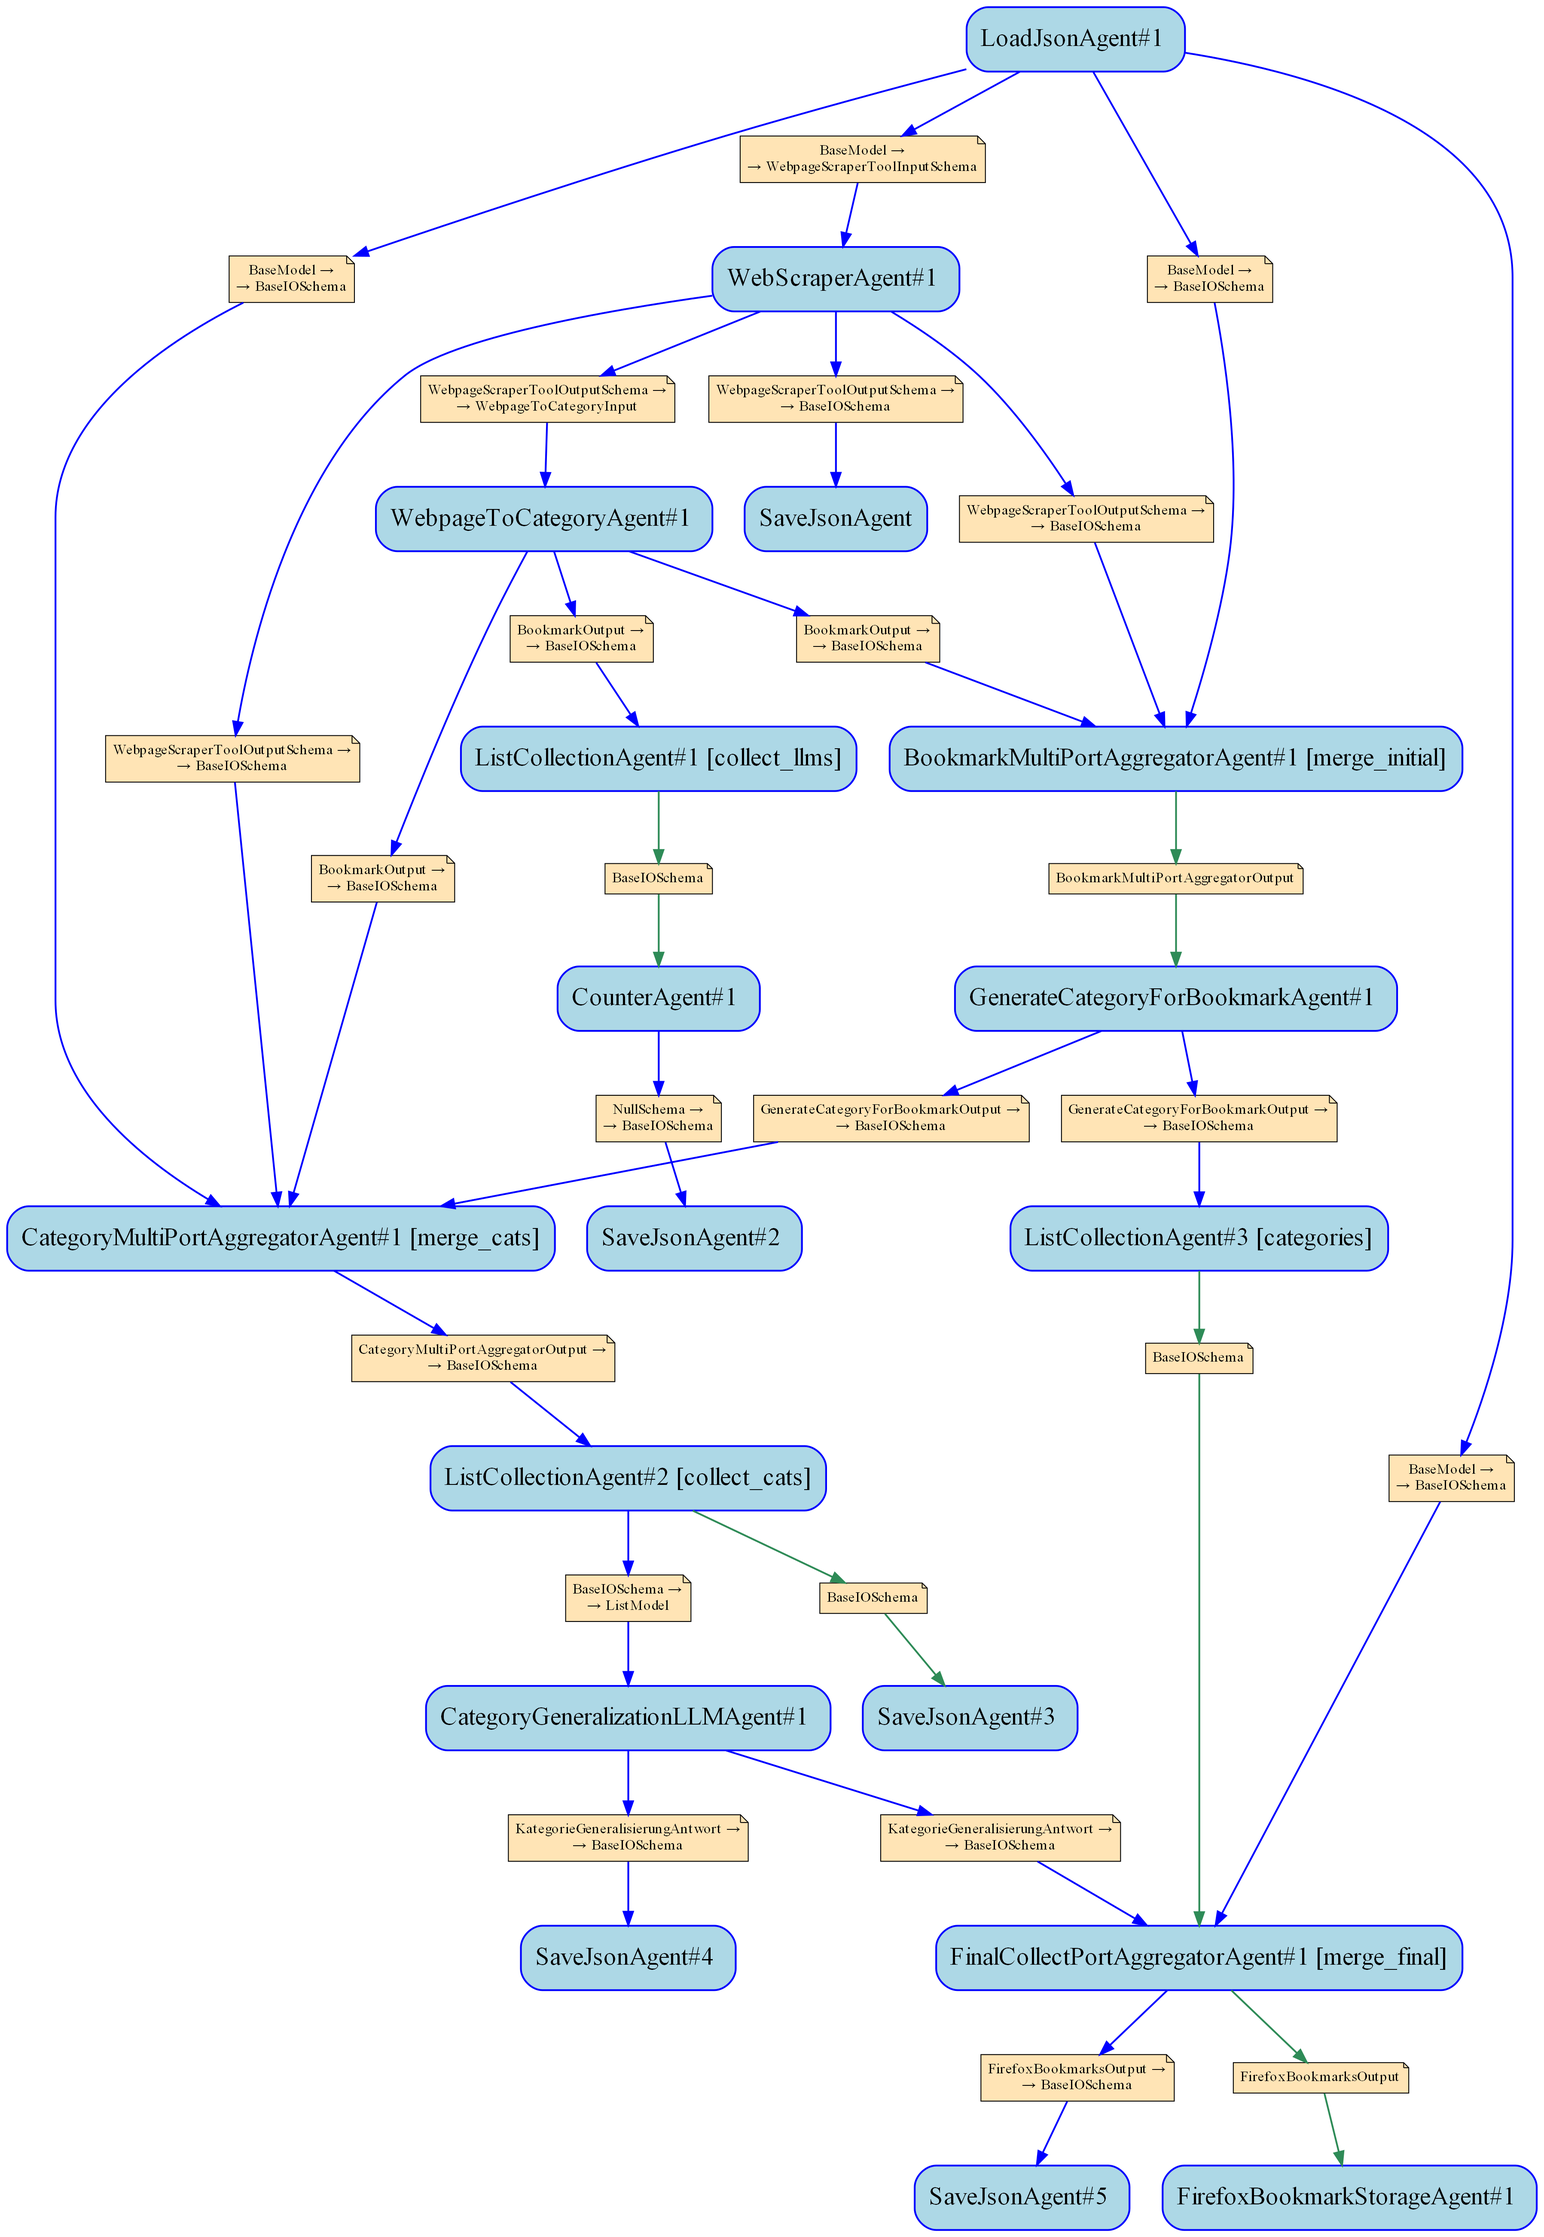
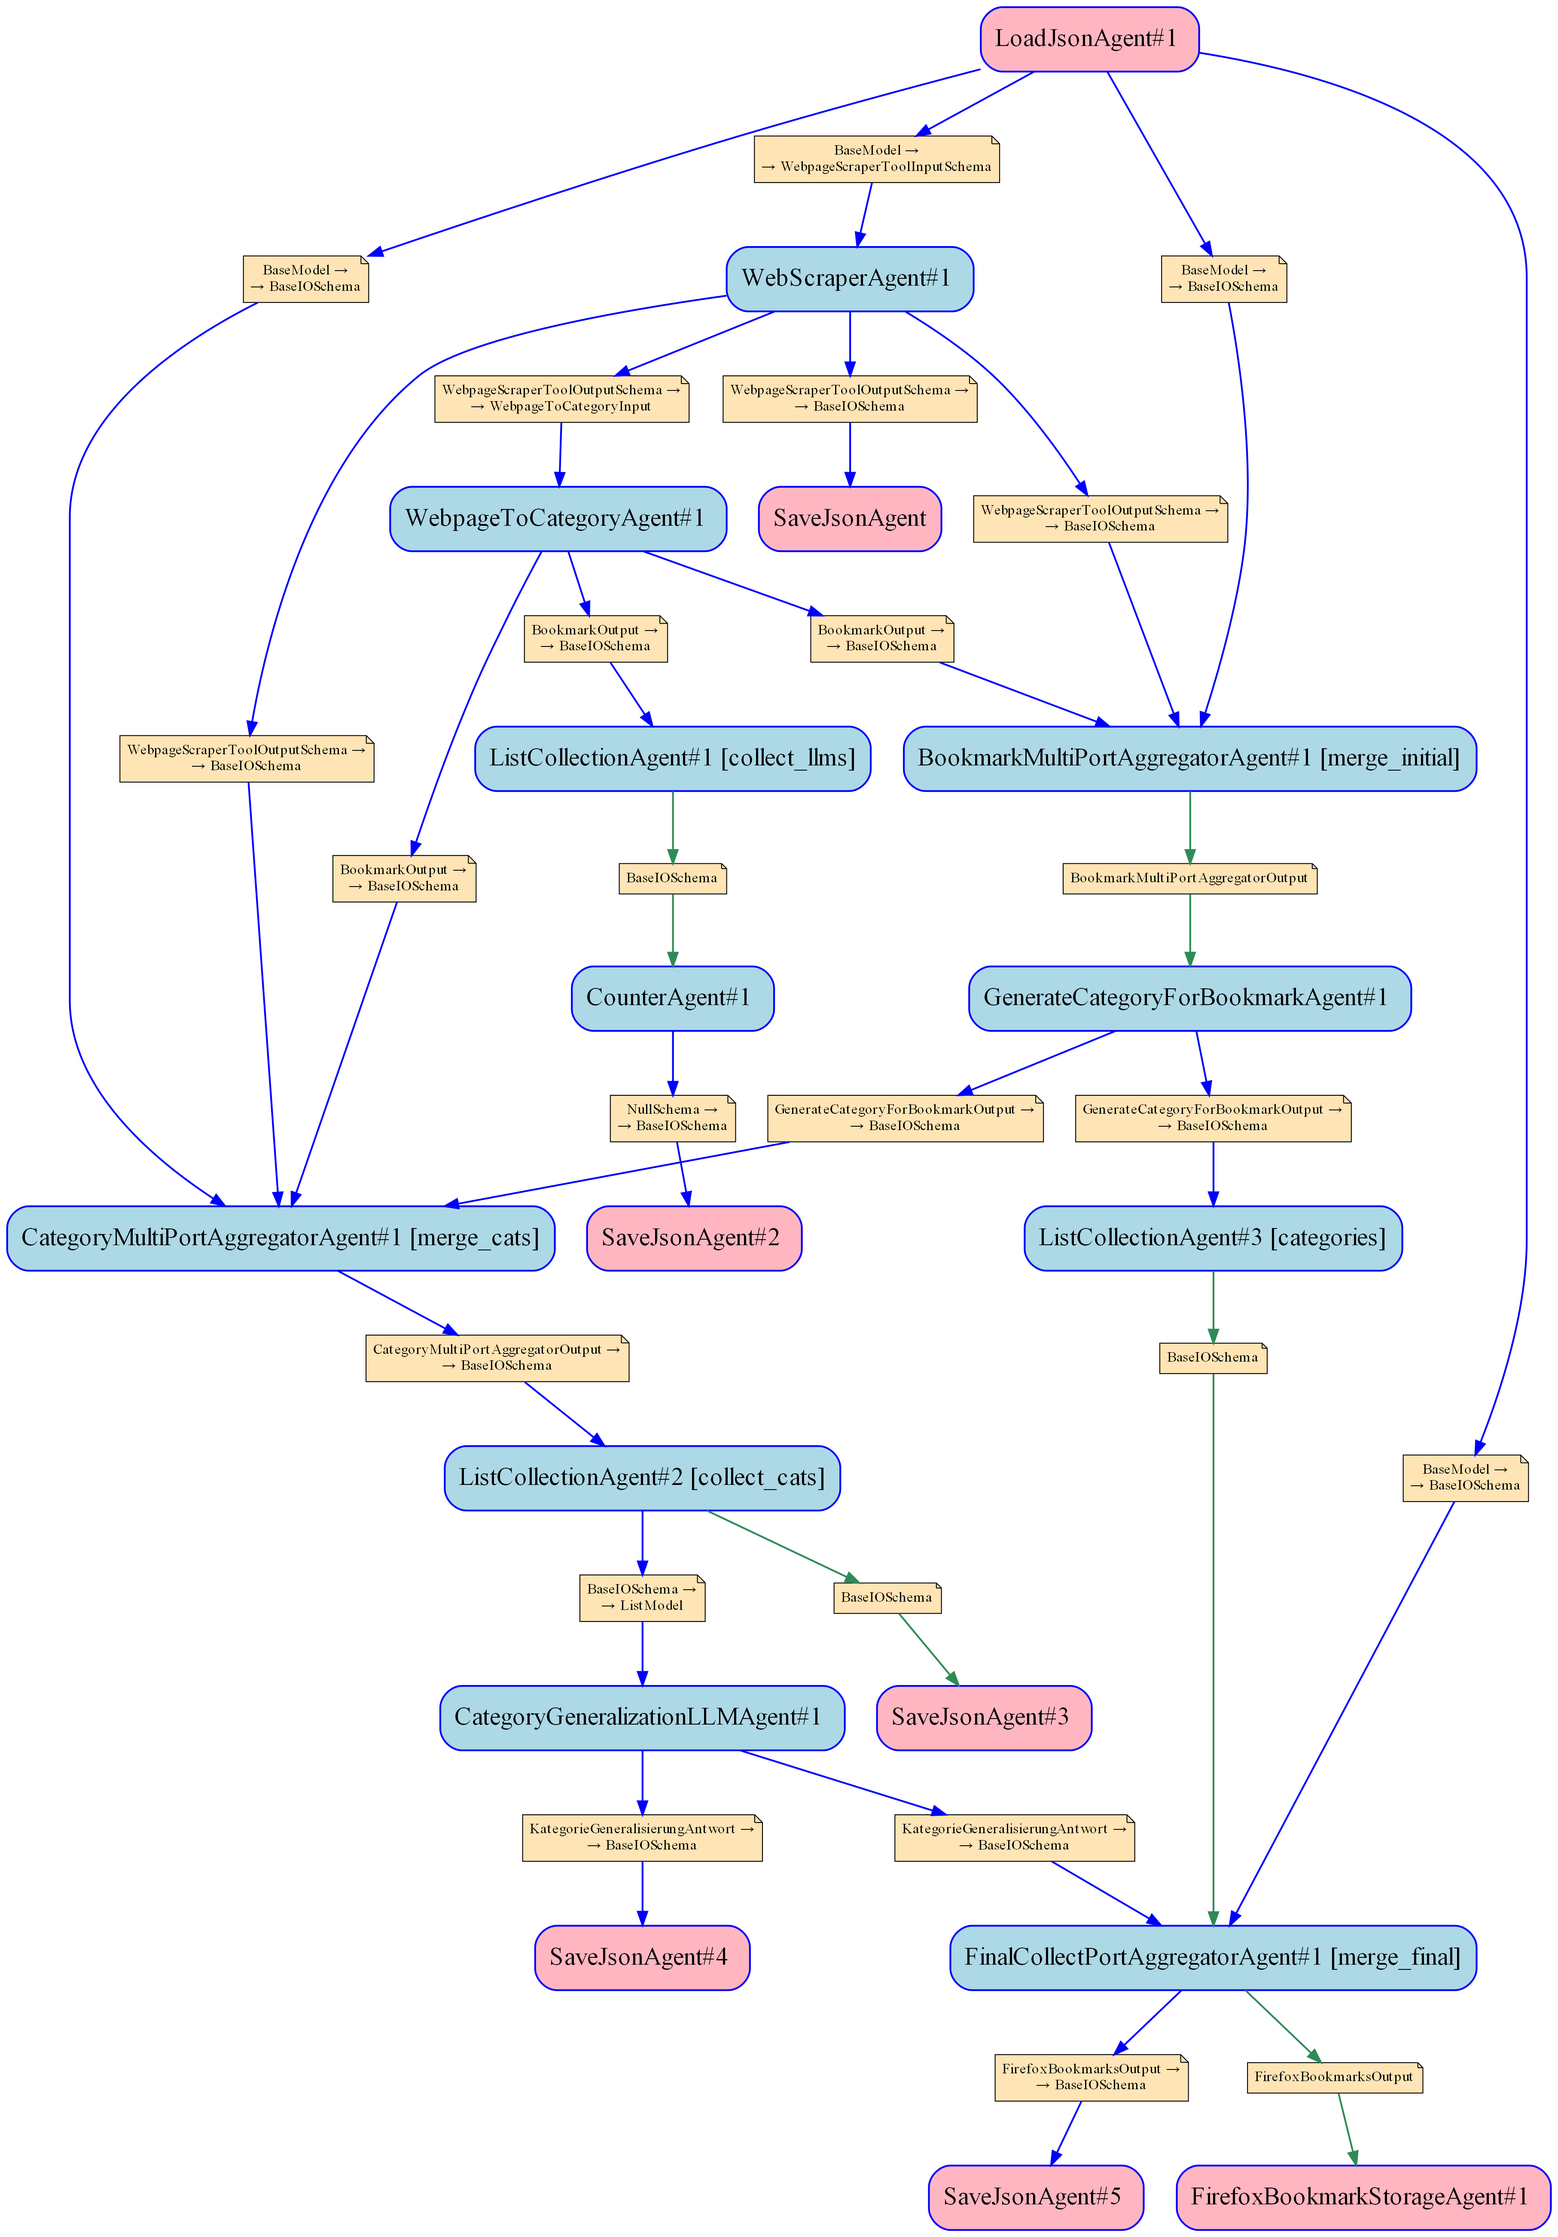
Exit/Entry node color

diff --git a/AgentFramework/PiplinePrinter.py b/AgentFramework/PiplinePrinter.py
@@ -55,6 +55,7 @@ class PipelinePrinter:
         is_ortho: bool = False,
         direction: str = "TB",
         fillcolor: Optional[str] = None,
+        entry_exit_fillcolor: Optional[str] = None,
         *,
         show_schemas: bool = False,
         schema_fillcolor: Optional[str] = None,
@@ -88,6 +89,17 @@ class PipelinePrinter:
             self.node_fill = None
             self.node_border = None
             self.node_fontcolor = None
+        self.fillcolor = fillcolor
+
+        if entry_exit_fillcolor:
+            self.entry_exit_node_fill = (
+                entry_exit_fillcolor if entry_exit_fillcolor.startswith("light") else f"light{entry_exit_fillcolor}"
+            )
+            self.entry_exit_node_border = fillcolor
+        else:
+            self.entry_exit_node_fill =  self.node_fill
+            self.entry_exit_node_border = self.node_border
+
 
         # schema‑node settings ----------------------------------------------
         self.show_schemas = show_schemas
@@ -104,6 +116,19 @@ class PipelinePrinter:
         """Return a GraphViz *dot* string describing the pipeline."""
         edges = self._collect_edges(list(agents))
         return self._dot(edges)
+
+    def to_mermaid(self, agents: Iterable["ConnectedAgent"]) -> str:
+        """
+        Return a Mermaid-JS graph definition that mirrors `.to_dot()`.
+
+        Example
+        -------
+        >>> printer = PipelinePrinter(direction="LR", show_schemas=True)
+        >>> mmd = printer.to_mermaid(scheduler.agents)
+        >>> Path("pipeline.mmd").write_text(mmd)
+        """
+        edges = self._collect_edges(list(agents))
+        return self._mermaid(edges)
 
     def save_as_png(self, agents: Iterable["ConnectedAgent"], png_path: Union[str, Path]):
         """Render the graph directly to a PNG (requires *dot* on PATH)."""
@@ -183,6 +208,31 @@ class PipelinePrinter:
                         seen.add(port)
                         yield port
 
+    # ───────────────────────────  CLASSIFIER  ────────────────────────────
+    def _classify_nodes(self, edges):
+        """Return (entries, exits, all_nodes) from the edge mapping.
+
+        *entries* have no incoming edges; *exits* have no outgoing edges.
+        """
+        from collections import defaultdict
+
+        incoming = defaultdict(int)
+        outgoing = defaultdict(int)
+        nodes = set()
+
+        for src, targets in edges.items():
+            nodes.add(src)
+            if targets:
+                outgoing[src] += len(targets)
+            for tgt, *_ in targets:
+                nodes.add(tgt)
+                incoming[tgt] += 1
+
+        entries = {n for n in nodes if incoming[n] == 0}
+        exits   = {n for n in nodes if outgoing[n] == 0}
+        return entries, exits, nodes
+
+
     @staticmethod
     def _schema_for_port(agent: "ConnectedAgent", port_obj: "ToolPort") -> Optional[Type]:
         """Resolve the schema *associated* with a given output port."""
@@ -222,14 +272,22 @@ class PipelinePrinter:
                 print(f"  {connector} {tgt}{suffix}")
 
     def _dot(self, edges) -> str:
-        """Return a GraphViz *dot* string for the graph – honours `show_schemas`."""
+        """Return a GraphViz *dot* string for the graph – honours `show_schemas`
+        and paints entry/exit nodes with dedicated colours."""
         label_type = "xlabel" if self.is_ortho else "label"
 
-        lines: List[str] = ["digraph pipeline {", f"  rankdir={self.direction};", "  bgcolor=transparent;"]
+        # 1) figure out which nodes are entries/exits
+        entries, exits, _ = self._classify_nodes(edges)
+
+        # 2) header & global defaults
+        lines: List[str] = [
+            "digraph pipeline {",
+            f"  rankdir={self.direction};",
+            "  bgcolor=transparent;",
+        ]
         if self.is_ortho:
             lines.append("  splines=ortho;")
 
-        # node defaults ------------------------------------------------------
         if self.fillcolor:
             lines.append(
                 '  node [shape=box, style="rounded,filled", '
@@ -239,7 +297,14 @@ class PipelinePrinter:
         else:
             lines.append("  node [shape=box, style=rounded];")
 
-        # edges (and optional schema notes) ----------------------------------
+        # 3) per-node overrides for entry/exit
+        for node in entries | exits:
+            fill  = self.entry_exit_node_fill  or self.node_fill or "white"
+            bord  = self.entry_exit_node_border or self.node_border or "black"
+            # only override colours—style/shape inherit from the global defaults
+            lines.append(f'  "{node}" [fillcolor="{fill}", color="{bord}"];')
+
+        # 4) edges (and optional schema notes)
         for src, targets in edges.items():
             for tgt, suffix, out_schema, in_schema in targets:
                 if self.show_schemas:
@@ -278,56 +343,40 @@ class PipelinePrinter:
         lines.append("}")
         return "\n".join(lines)
 
-# ──────────────────────────────────────────────────────────────────────────────
-#  ADD TO PipelinePrinter (place just below _dot, or wherever you group helpers)
-# ──────────────────────────────────────────────────────────────────────────────
-
-    # ───────────────────────────  NEW: Mermaid  ────────────────────────────
-
-    def to_mermaid(self, agents: Iterable["ConnectedAgent"]) -> str:
-        """
-        Return a Mermaid-JS graph definition that mirrors `.to_dot()`.
-
-        Example
-        -------
-        >>> printer = PipelinePrinter(direction="LR", show_schemas=True)
-        >>> mmd = printer.to_mermaid(scheduler.agents)
-        >>> Path("pipeline.mmd").write_text(mmd)
-        """
-        edges = self._collect_edges(list(agents))
-        return self._mermaid(edges)
-
-    # ------------------------------------------------------------------ helpers
 
     def _mermaid(self, edges) -> str:
-        """Internal rendering routine – very similar to `_dot()`."""
-        # Graph orientation ────────────────────────────────────────────────
-        orient_map = {"TB": "TD", "BT": "BT", "LR": "LR", "RL": "RL"}
-        orientation = orient_map.get(self.direction, "TD")
+        """Internal rendering routine – paints entry/exit nodes specially in Mermaid."""
+        # 1) classify
+        entries, exits, _ = self._classify_nodes(edges)
+
+        # 2) orientation
+        orient_map   = {"TB": "TD", "BT": "BT", "LR": "LR", "RL": "RL"}
+        orientation  = orient_map.get(self.direction, "TD")
 
         def _safe(node: str) -> str:
-            """Mermaid node ids must be bare-word – replace non-word chars."""
             import re
             return re.sub(r"\W+", "_", node)
 
-        # Build text lines ─────────────────────────────────────────────────
+        # 3) build lines
         lines: List[str] = [f"graph {orientation}"]
 
         for src, targets in edges.items():
             src_id = _safe(src)
-            lines.append(f'    {src_id}["{src}"]')          # declare once
+            lines.append(f'    {src_id}["{src}"]')
+            if src in entries:
+                lines.append(f"    class {src_id} entry_exit;")
 
             for tgt, suffix, out_schema, in_schema in targets:
                 tgt_id = _safe(tgt)
-                if f'{tgt_id}["' not in " ".join(lines):     # declare once
+                if f'{tgt_id}["' not in " ".join(lines):
                     lines.append(f'    {tgt_id}["{tgt}"]')
+                    if tgt in exits:
+                        lines.append(f"    class {tgt_id} entry_exit;")
 
-                # Edge label (input-port suffix)  ────────────────────────
                 elabel = f' |{suffix[1:]}| ' if suffix else " "
 
-                # Optional schema “note” nodes  ───────────────────────────
                 if self.show_schemas:
-                    safe = suffix or "@"
+                    safe    = suffix or "@"
                     note_id = _safe(f"{src}_{tgt}_{safe}_schema")
                     if out_schema == in_schema:
                         label = out_schema.__name__ if out_schema else "?"
@@ -343,7 +392,7 @@ class PipelinePrinter:
 
         lines.append("")
 
-        # Optional styling block for schema notes (only if used) ───────────
+        # 4) schema note styling (if used)
         if self.show_schemas:
             fill = self.schema_fillcolor or "#FFE"
             lines.insert(
@@ -351,8 +400,14 @@ class PipelinePrinter:
                 f'classDef schema fill:{fill},stroke:#333,stroke-width:1px,font-size:10px;',
             )
 
+        # 5) entry/exit styling
+        fill   = self.entry_exit_node_fill  or "#EDF2FF"
+        border = self.entry_exit_node_border or "#547DDE"
+        lines.append(f'classDef entry_exit fill:{fill},stroke:{border},stroke-width:2px;')
+
         return "\n".join(lines)
 
+    # ------------------------------------------------------------------ helpers
 
     def save_as_dot(
             self,

diff --git a/AgentDeepResearch/test/test_deepresearch.py b/AgentDeepResearch/test/test_deepresearch.py
@@ -147,10 +147,19 @@ def demo_run():
     scheduler, entry = build_pipeline()
     # ------------------------------------------------------------------------------------------------
     # Print pipeline
-    printer = PipelinePrinter(is_ortho=True, direction='TB', fillcolor='blue')
+    printer = PipelinePrinter(is_ortho=True,
+                              direction='TB',
+                              fillcolor='blue',
+                              entry_exit_fillcolor = 'pink',
+                                )
     printer.print_ascii(scheduler.agents)
     printer.save_as_png(scheduler.agents, 'r:/pipeline_research.png')
-    printer = PipelinePrinter(is_ortho=True, direction='TB', fillcolor='blue', show_schemas = True, schema_fillcolor = 'moccasin')
+    printer = PipelinePrinter(is_ortho=True,
+                              direction='TB',
+                              fillcolor='blue',
+                              entry_exit_fillcolor='pink',
+                              show_schemas = True,
+                              schema_fillcolor = 'moccasin')
     printer.print_ascii(scheduler.agents)
     printer.save_as_png(scheduler.agents, 'r:/pipeline_research_large.png')
     #return

diff --git a/AgentBookmarks/test/test_condition.py b/AgentBookmarks/test/test_condition.py
@@ -95,12 +95,21 @@ def main():
     scheduler.add_agent(sinkAgent)
     scheduler.add_agent(sinkCntAgent)
 
-    printer = PipelinePrinter(is_ortho=False, direction='LR', fillcolor='blue')
+    printer = PipelinePrinter(is_ortho=False,
+                              direction='LR',
+                              fillcolor='blue',
+                              entry_exit_fillcolor='yellow',
+                              )
     printer.print_ascii(scheduler.agents)
     printer.to_dot(scheduler.agents,)
     printer.save_as_png(scheduler.agents, 'r:/pipeline_condition.png')
 
-    printer = PipelinePrinter(is_ortho=False, direction='LR', fillcolor='blue', show_schemas=True,schema_fillcolor='moccasin')
+    printer = PipelinePrinter(is_ortho=False,
+                              direction='LR',
+                              fillcolor='blue',
+                              entry_exit_fillcolor='yellow',
+                              show_schemas=True,
+                              schema_fillcolor='moccasin')
     printer.print_ascii(scheduler.agents)
     printer.to_dot(scheduler.agents,)
     printer.save_as_png(scheduler.agents, 'r:/pipeline_condition_large.png')

diff --git a/AgentBookmarks/test/test_bookmark_agents.py b/AgentBookmarks/test/test_bookmark_agents.py
@@ -297,10 +297,18 @@ def main():
 
     # ------------------------------------------------------------------------------------------------
     # Print pipeline
-    printer = PipelinePrinter(is_ortho=False, direction='TB', fillcolor='blue', show_schemas=True,schema_fillcolor='moccasin')
+    printer = PipelinePrinter(is_ortho=False,
+                              direction='TB',
+                              fillcolor='blue',
+                              entry_exit_fillcolor='pink',
+                              show_schemas=True,
+                              schema_fillcolor='moccasin')
     printer.print_ascii(scheduler.agents)
     printer.save_as_png(scheduler.agents, 'r:/pipeline_bookmarks_large.png')
-    printer = PipelinePrinter(is_ortho=False, direction='TB', fillcolor='blue')
+    printer = PipelinePrinter(is_ortho=False,
+                              direction='TB',
+                              fillcolor='blue',
+                              entry_exit_fillcolor='pink',)
     printer.print_ascii(scheduler.agents)
     printer.save_as_png(scheduler.agents, 'r:/pipeline_bookmarks.png')
     #return
